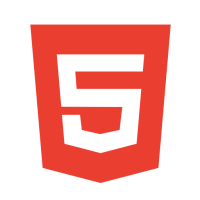
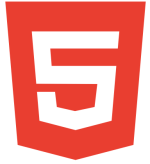
ajustes nos tamanhos dos icones

diff --git a/assets/js/script.js b/assets/js/script.js
@@ -86,7 +86,7 @@ const habilidades = [
         paragrafo: 'Express.js é um framework minimalista para Node.js que facilita a criação de APIs e servidores web.',
     },
     {
-        src: './assets/img/mysql_icon.webp',
+        src: './assets/img/mysql_icon.png',
         alt: 'Logo do MySQL',
         subtitulo: 'MySQL',
         paragrafo: 'MySQL é um sistema de gerenciamento de banco de dados relacional amplamente usado para armazenar e organizar dados estruturados.',
